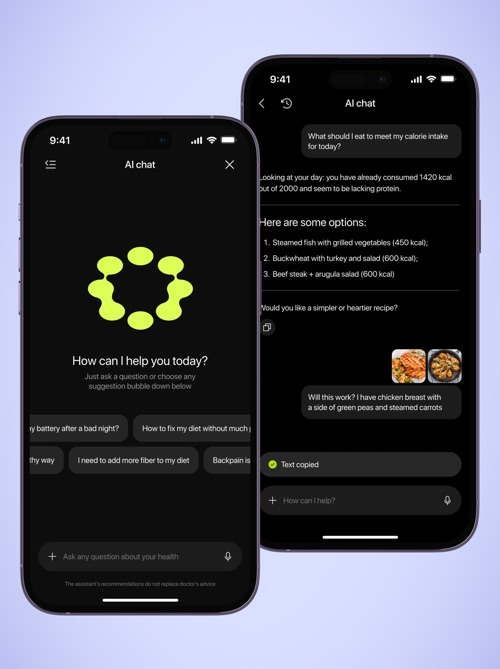
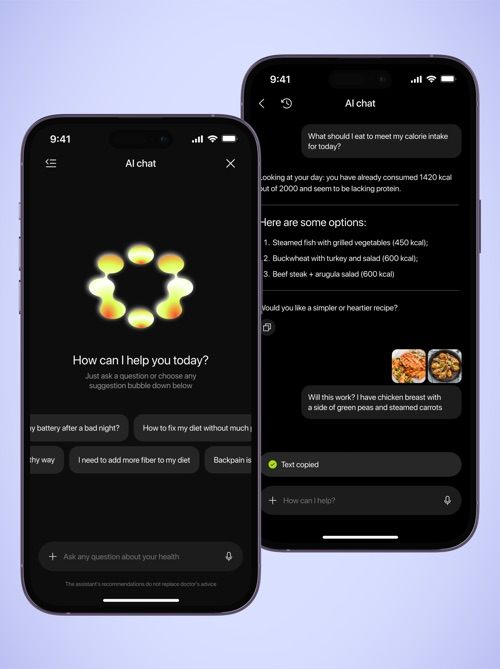
Update Sain AI-assistant screenshot and use a pointer cursor
- Replace the AI-assistant card image with the new design from Figma
  (all srcset sizes, same file names).
- Case-page screenshots show a pointing-hand cursor instead of zoom-in.

diff --git a/css/so-ya---web-design.webflow.css b/css/so-ya---web-design.webflow.css
@@ -1731,7 +1731,7 @@ h2 {
 }
 
 .project-card .project-img {
-  cursor: zoom-in;
+  cursor: pointer;
 }
 
 .lightbox {
